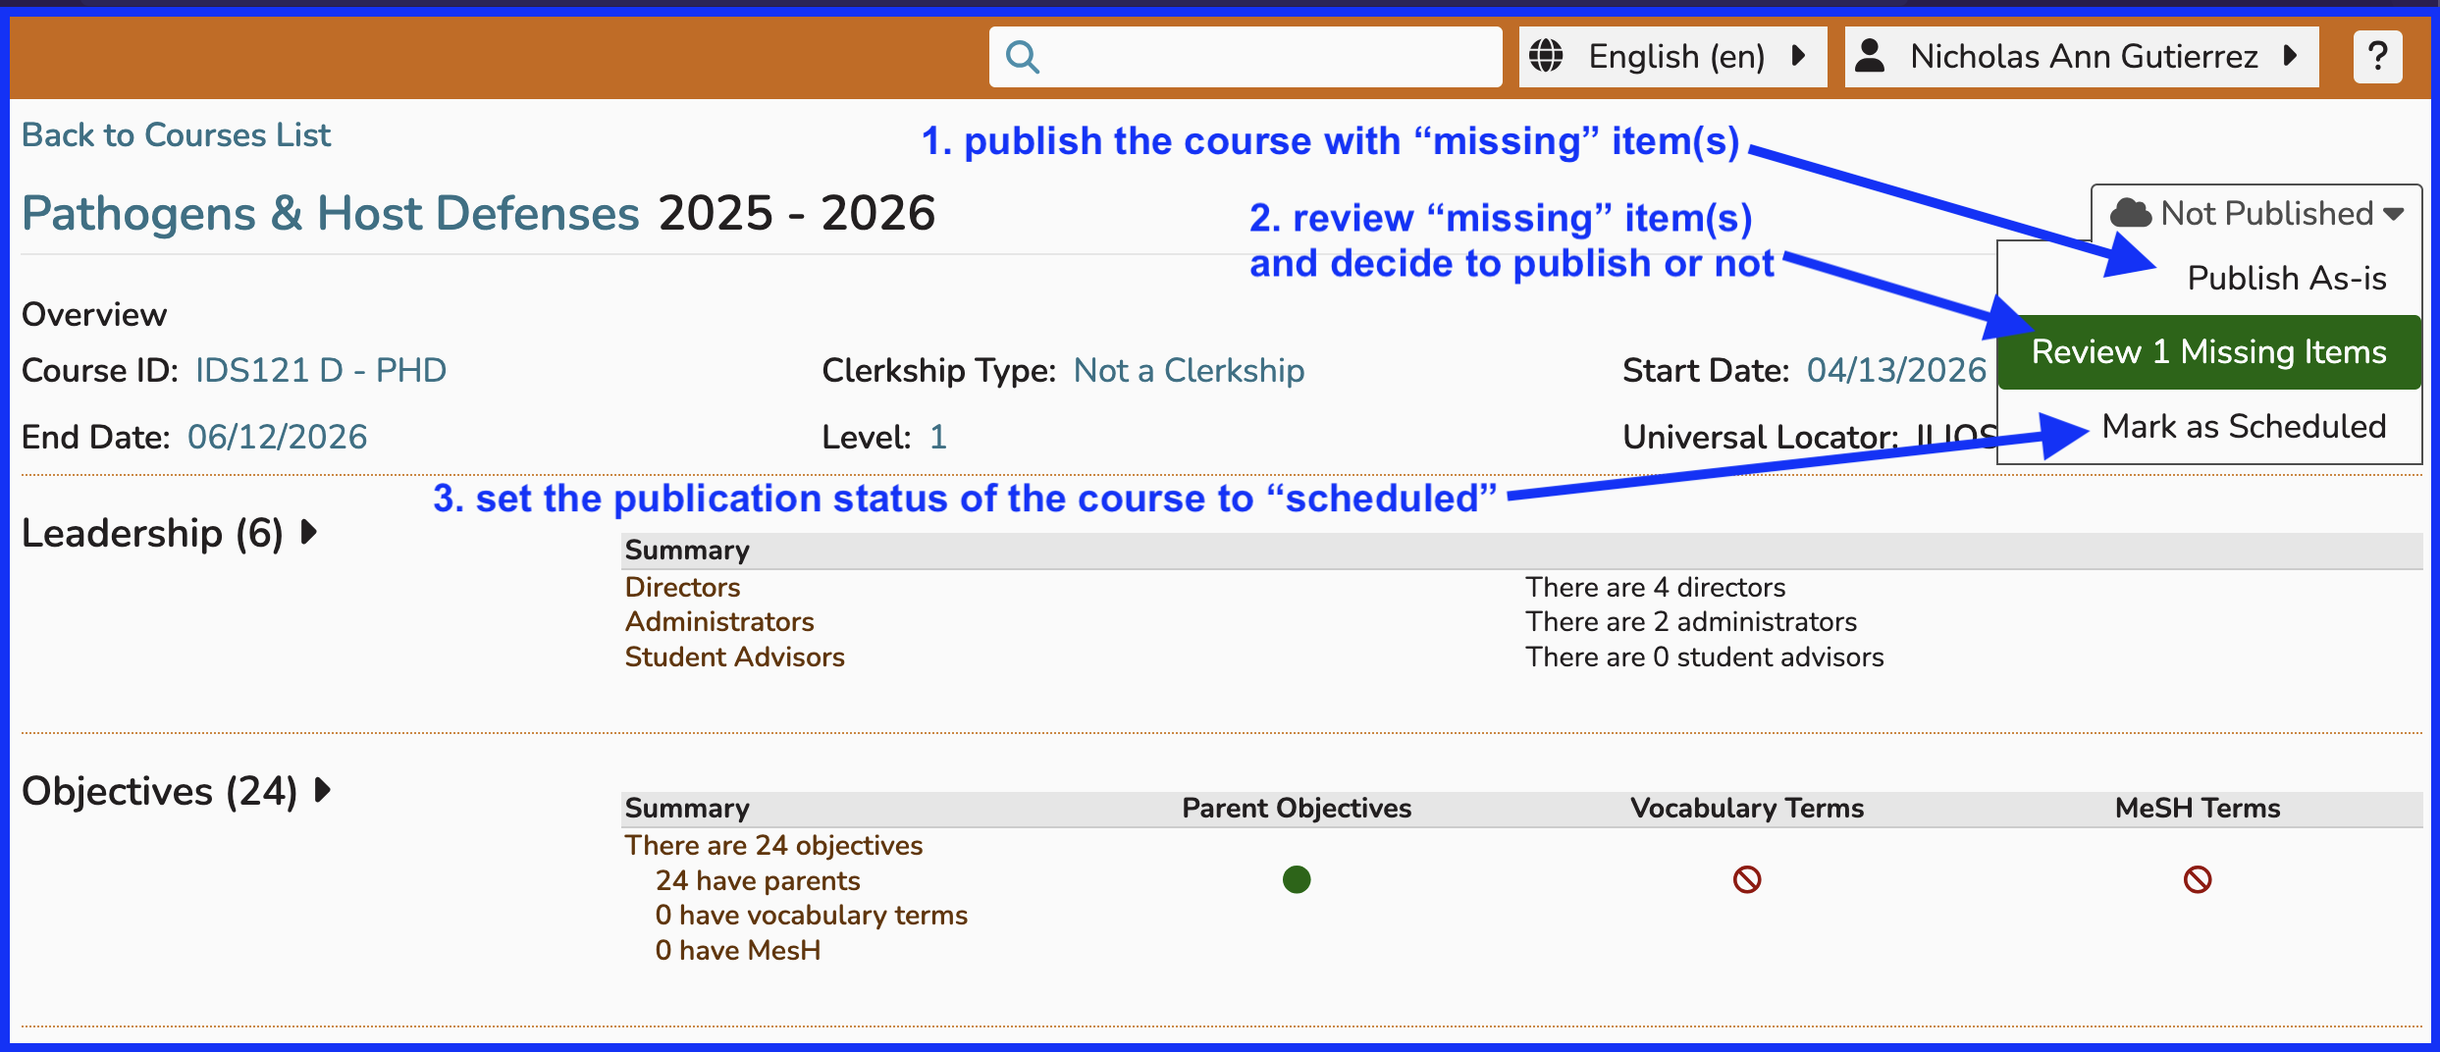
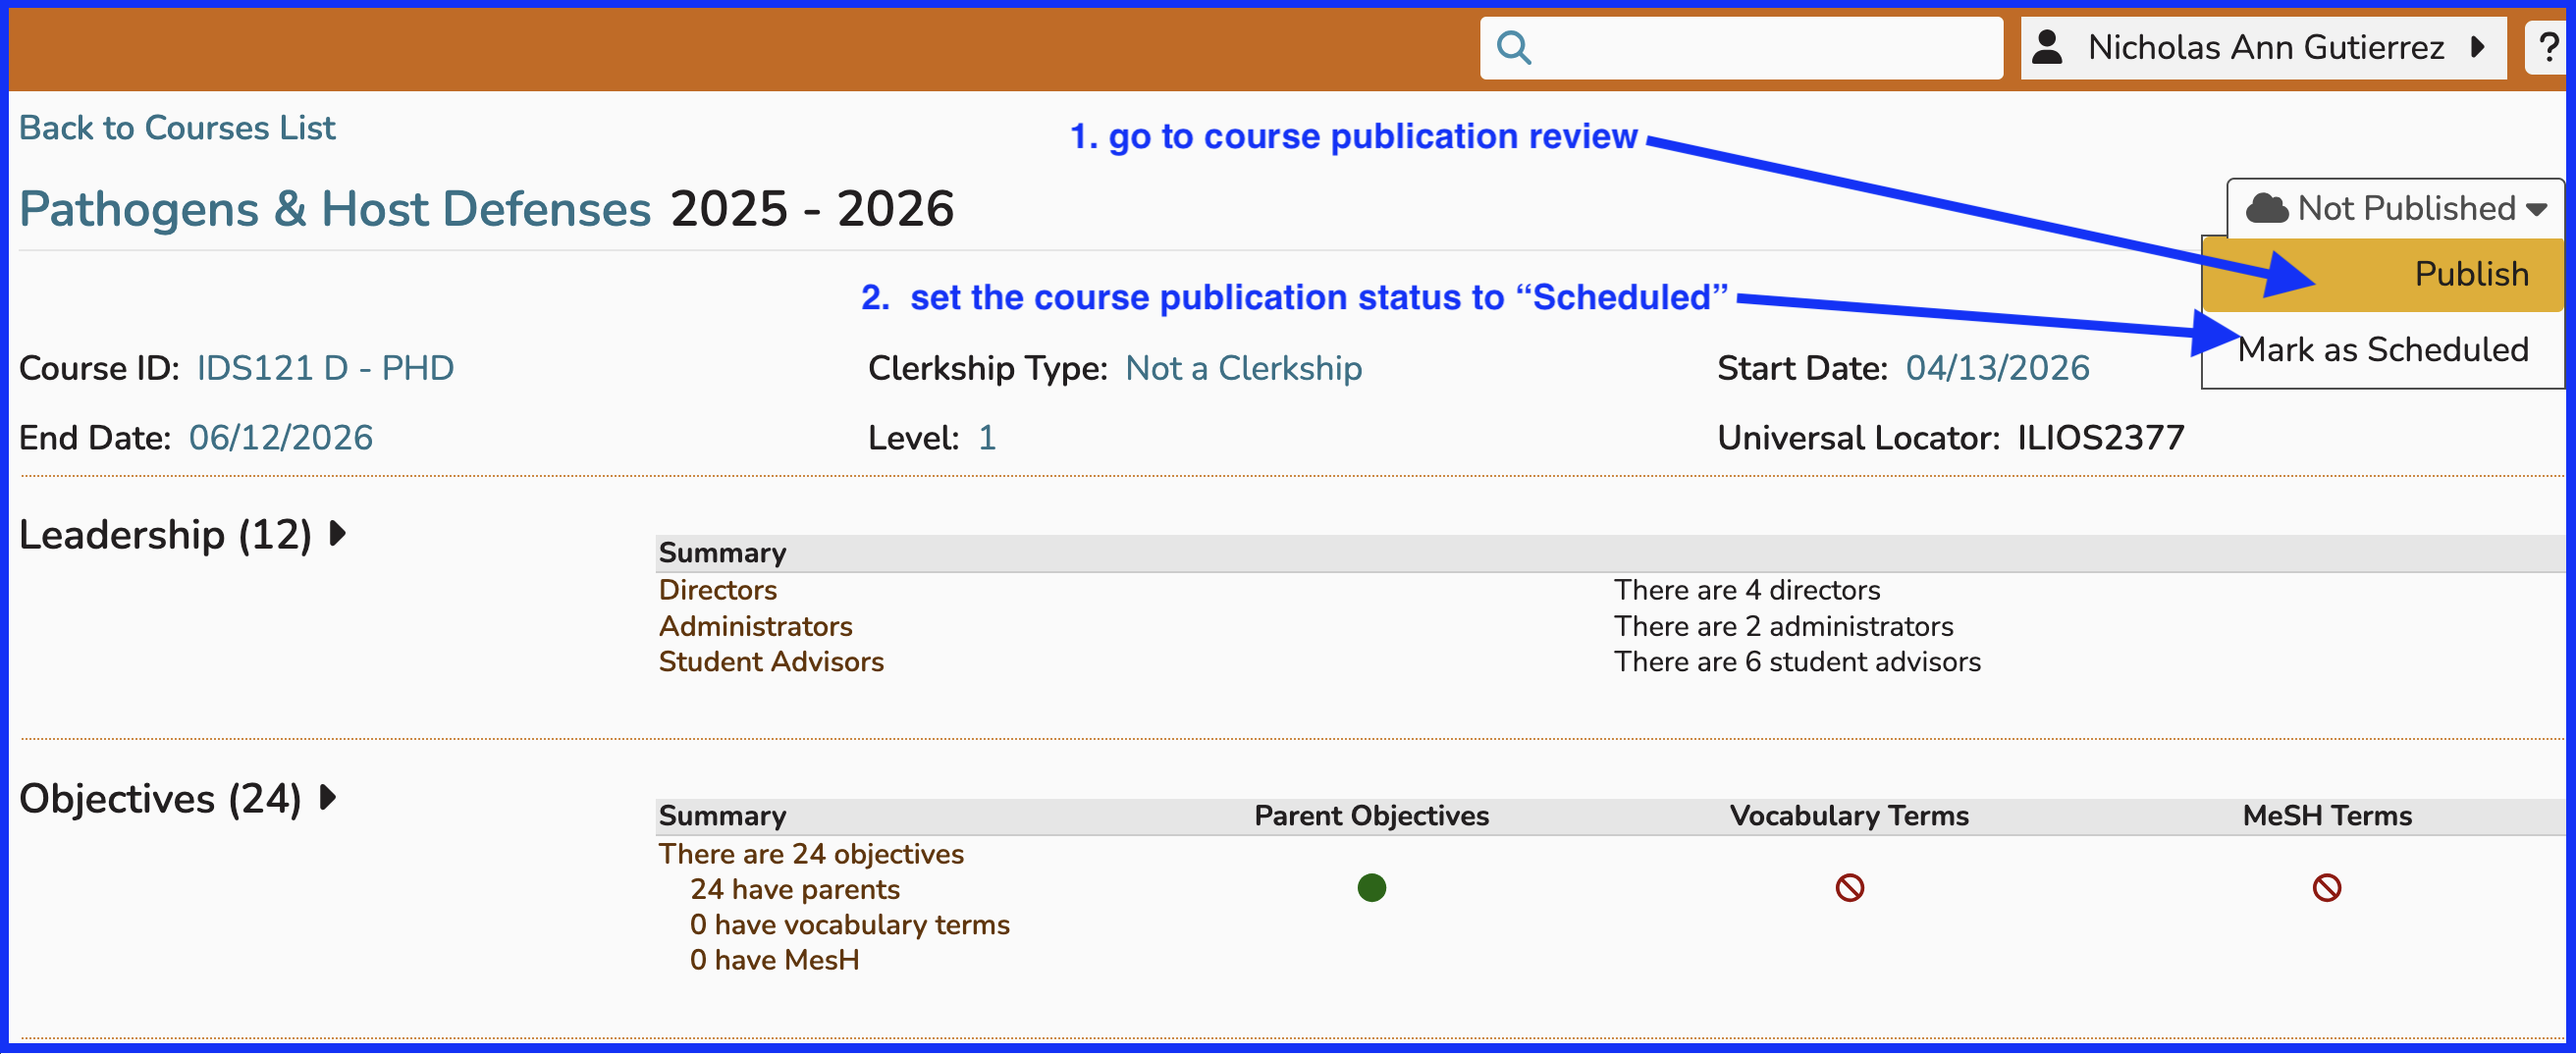
another image replacement and text update

diff --git a/courses-and-sessions/publishing.md b/courses-and-sessions/publishing.md
@@ -66,12 +66,11 @@ The required fields for publishing a Course are indicated in the top section abo
 
 Using the screen shot above as a guide, here are the options described.
 
-* (1) publish the course with one or more missing items - completes the publishing action of the course without requiring review
-* (2) review missing data and decide to publish or not - brings you to review and decide as shown below - follow link as shown to publish course - on course detail screen
+* (1) go to course publication review and decide to publish or not - review any possible missing data 
 
 ![missing items - course publication](../images/publishing/missing_items_course_publication.png)
 
-* (3) set the publication status of the course to "scheduled" - sets the course in a "to be determined" state - students will see "TBD" on calendar (if session is published or if session also has a status of "scheduled") with details to be revealed when the course itself gets published. This is only available on Calendar not Week at a Glance.
+* (2) set the publication status of the course to "scheduled" - sets the course in a "to be determined" state - students will see "TBD" on calendar (if session is published or if session also has a status of "scheduled") with details to be revealed when the course itself gets published. This is only available on Calendar not Week at a Glance.
 
 ## Publish a Session
 
